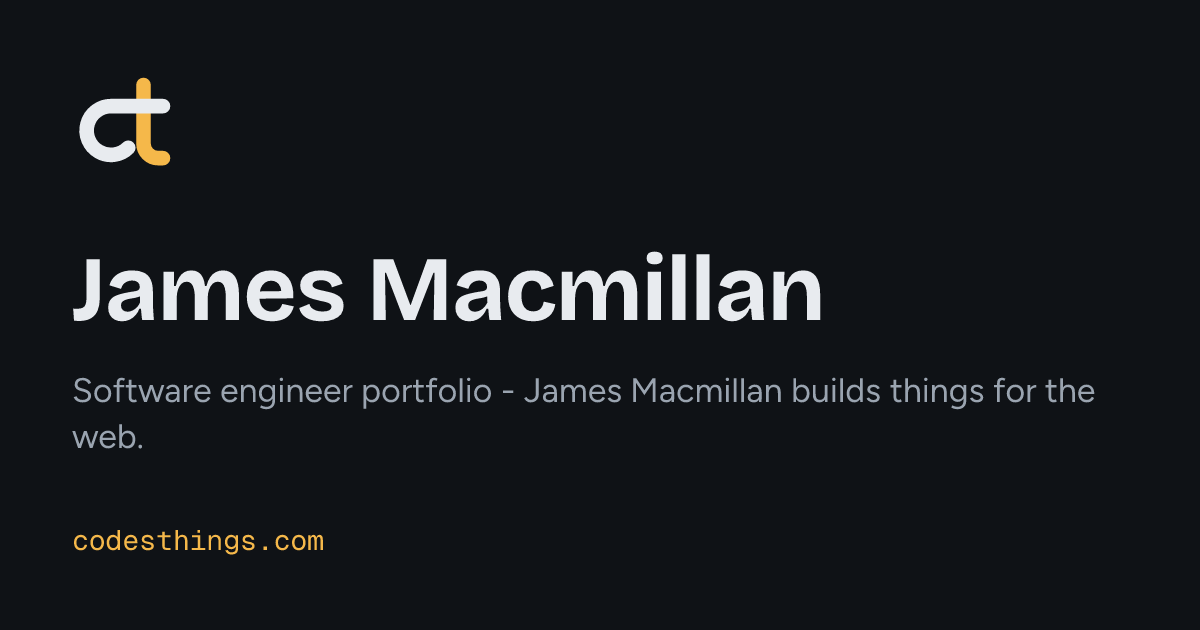
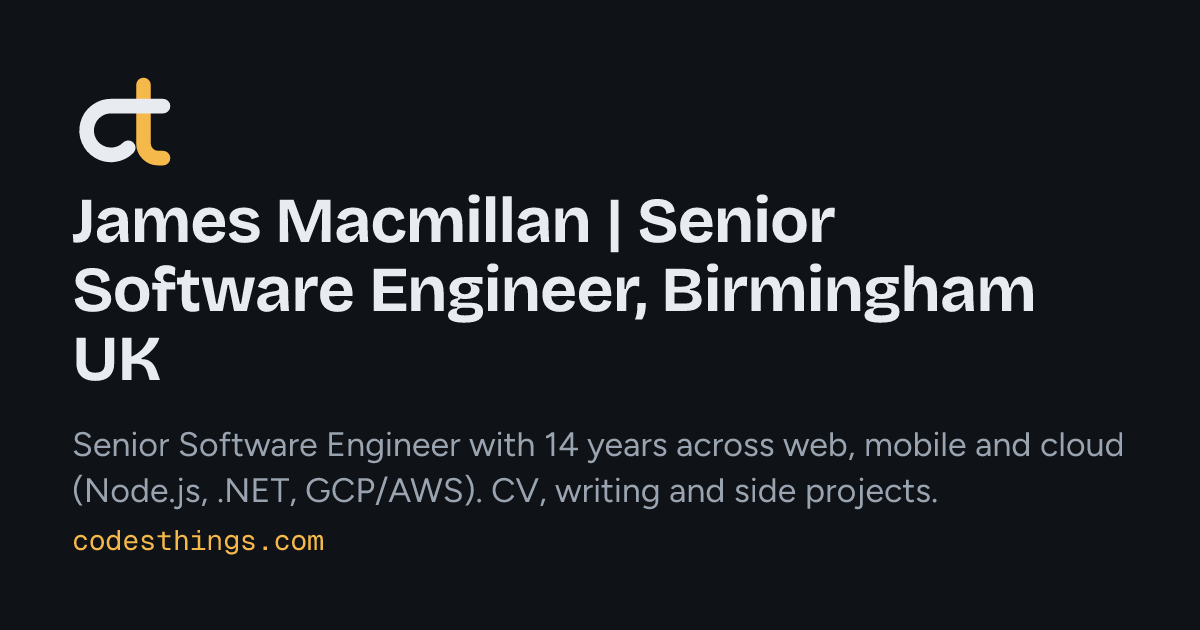
deploy: 5908e944f215933d7eda08b4990f09d56e4290ab

Changed region(s): [[0.0617, 0.3016, 0.9558, 0.7238], [0.0617, 0.754, 0.7708, 0.8143]]

diff --git a/index.html b/index.html
@@ -11,25 +11,25 @@ Hi. You're reading the source, so we'd get on. The CV is at /cv and the code is 
   <head>
     <meta charset="UTF-8" />
 <meta name="viewport" content="width=device-width, initial-scale=1.0" />
-<title>James Macmillan - codesthings.com</title>
-<meta name="description" content="Software engineer portfolio - James Macmillan builds things for the web." />
+<title>James Macmillan | Senior Software Engineer, Birmingham UK</title>
+<meta name="description" content="Senior Software Engineer with 14 years across web, mobile and cloud (Node.js, .NET, GCP/AWS). CV, writing and side projects." />
 <link rel="canonical" href="https://codesthings.com/" />
 <meta name="color-scheme" content="dark light" />
 
 <meta property="og:type" content="website" />
 <meta property="og:site_name" content="codesthings.com" />
-<meta property="og:title" content="James Macmillan - codesthings.com" />
-<meta property="og:description" content="Software engineer portfolio - James Macmillan builds things for the web." />
+<meta property="og:title" content="James Macmillan | Senior Software Engineer, Birmingham UK" />
+<meta property="og:description" content="Senior Software Engineer with 14 years across web, mobile and cloud (Node.js, .NET, GCP/AWS). CV, writing and side projects." />
 <meta property="og:url" content="https://codesthings.com/" />
 <meta property="og:image" content="https://codesthings.com/og/home.png" />
 <meta property="og:image:width" content="1200" />
 <meta property="og:image:height" content="630" />
-<meta property="og:image:alt" content="Share card for James Macmillan - codesthings.com" />
+<meta property="og:image:alt" content="Share card for James Macmillan | Senior Software Engineer, Birmingham UK" />
 <meta name="twitter:card" content="summary_large_image" />
-<meta name="twitter:title" content="James Macmillan - codesthings.com" />
-<meta name="twitter:description" content="Software engineer portfolio - James Macmillan builds things for the web." />
+<meta name="twitter:title" content="James Macmillan | Senior Software Engineer, Birmingham UK" />
+<meta name="twitter:description" content="Senior Software Engineer with 14 years across web, mobile and cloud (Node.js, .NET, GCP/AWS). CV, writing and side projects." />
 <meta name="twitter:image" content="https://codesthings.com/og/home.png" />
-<meta name="twitter:image:alt" content="Share card for James Macmillan - codesthings.com" />
+<meta name="twitter:image:alt" content="Share card for James Macmillan | Senior Software Engineer, Birmingham UK" />
 
 <script type="application/ld+json">{"@context":"https://schema.org","@type":"Person","name":"James Macmillan","jobTitle":"Senior Software Engineer","url":"https://codesthings.com","address":{"@type":"PostalAddress","addressLocality":"Birmingham","addressCountry":"GB"},"sameAs":["https://github.com/jamescodesthings","https://makerworld.com/en/@jamescodesthing","https://www.linkedin.com/in/jamescodesthings","https://www.instagram.com/jamescodesthings/"]}</script>
 <link rel="icon" href="/assets/favicon.svg" type="image/svg+xml" />
@@ -207,7 +207,7 @@ Hi. You're reading the source, so we'd get on. The CV is at /cv and the code is 
     <p class="status-pill"><span class="status-pill__dot" aria-hidden="true"></span>Available now · Birmingham, UK</p>
     
     <h1 class="home-hero__name" id="hero-title">James Macmillan</h1>
-    <p class="home-hero__tagline"><span class="home-hero__prompt" aria-hidden="true">&gt;</span> software engineer · maker · photographer<span class="home-hero__cursor" aria-hidden="true"></span></p>
+    <p class="home-hero__tagline"><span class="home-hero__prompt" aria-hidden="true">&gt;</span> senior software engineer · maker · photographer<span class="home-hero__cursor" aria-hidden="true"></span></p>
     <p class="home-hero__bio">A pragmatic engineer who builds for the web, and makes things.</p>
     <ul class="home-hero__links">
       
@@ -1391,7 +1391,7 @@ Hi. You're reading the source, so we'd get on. The CV is at /cv and the code is 
     <p class="footer-meta">
       <span>&copy; 2026 James Macmillan</span>
       
-      <a href="https://github.com/jamescodesthings/jamescodesthings.github.io/commit/b700e7570e659b001821a51fef5ef1f38c37920b" rel="noopener">vb700e75 &middot; built 12 Oct 2026</a>
+      <a href="https://github.com/jamescodesthings/jamescodesthings.github.io/commit/5908e944f215933d7eda08b4990f09d56e4290ab" rel="noopener">v5908e94 &middot; built 12 Oct 2026</a>
       
     </p>
   </div>

diff --git a/about-cookies.html b/about-cookies.html
@@ -369,7 +369,7 @@ Hi. You're reading the source, so we'd get on. The CV is at /cv and the code is 
     <p class="footer-meta">
       <span>&copy; 2026 James Macmillan</span>
       
-      <a href="https://github.com/jamescodesthings/jamescodesthings.github.io/commit/b700e7570e659b001821a51fef5ef1f38c37920b" rel="noopener">vb700e75 &middot; built 12 Oct 2026</a>
+      <a href="https://github.com/jamescodesthings/jamescodesthings.github.io/commit/5908e944f215933d7eda08b4990f09d56e4290ab" rel="noopener">v5908e94 &middot; built 12 Oct 2026</a>
       
     </p>
   </div>

diff --git a/blog/2026-03-30-how-this-site-works.html b/blog/2026-03-30-how-this-site-works.html
@@ -409,7 +409,7 @@ Hi. You're reading the source, so we'd get on. The CV is at /cv and the code is 
     <p class="footer-meta">
       <span>&copy; 2026 James Macmillan</span>
       
-      <a href="https://github.com/jamescodesthings/jamescodesthings.github.io/commit/b700e7570e659b001821a51fef5ef1f38c37920b" rel="noopener">vb700e75 &middot; built 12 Oct 2026</a>
+      <a href="https://github.com/jamescodesthings/jamescodesthings.github.io/commit/5908e944f215933d7eda08b4990f09d56e4290ab" rel="noopener">v5908e94 &middot; built 12 Oct 2026</a>
       
     </p>
   </div>

diff --git a/blog/2026-05-01-zerocalc.html b/blog/2026-05-01-zerocalc.html
@@ -670,7 +670,7 @@ on <a href="https://www.printables.com/model/1399739-picocalc-zero-mod-case" rel
     <p class="footer-meta">
       <span>&copy; 2026 James Macmillan</span>
       
-      <a href="https://github.com/jamescodesthings/jamescodesthings.github.io/commit/b700e7570e659b001821a51fef5ef1f38c37920b" rel="noopener">vb700e75 &middot; built 12 Oct 2026</a>
+      <a href="https://github.com/jamescodesthings/jamescodesthings.github.io/commit/5908e944f215933d7eda08b4990f09d56e4290ab" rel="noopener">v5908e94 &middot; built 12 Oct 2026</a>
       
     </p>
   </div>

diff --git a/blog/2026-10-09-making-my-site-fast.html b/blog/2026-10-09-making-my-site-fast.html
@@ -487,7 +487,7 @@ Hi. You're reading the source, so we'd get on. The CV is at /cv and the code is 
     <p class="footer-meta">
       <span>&copy; 2026 James Macmillan</span>
       
-      <a href="https://github.com/jamescodesthings/jamescodesthings.github.io/commit/b700e7570e659b001821a51fef5ef1f38c37920b" rel="noopener">vb700e75 &middot; built 12 Oct 2026</a>
+      <a href="https://github.com/jamescodesthings/jamescodesthings.github.io/commit/5908e944f215933d7eda08b4990f09d56e4290ab" rel="noopener">v5908e94 &middot; built 12 Oct 2026</a>
       
     </p>
   </div>

diff --git a/blog/index.html b/blog/index.html
@@ -344,7 +344,7 @@ Hi. You're reading the source, so we'd get on. The CV is at /cv and the code is 
     <p class="footer-meta">
       <span>&copy; 2026 James Macmillan</span>
       
-      <a href="https://github.com/jamescodesthings/jamescodesthings.github.io/commit/b700e7570e659b001821a51fef5ef1f38c37920b" rel="noopener">vb700e75 &middot; built 12 Oct 2026</a>
+      <a href="https://github.com/jamescodesthings/jamescodesthings.github.io/commit/5908e944f215933d7eda08b4990f09d56e4290ab" rel="noopener">v5908e94 &middot; built 12 Oct 2026</a>
       
     </p>
   </div>

diff --git a/colophon.html b/colophon.html
@@ -403,7 +403,7 @@ Hi. You're reading the source, so we'd get on. The CV is at /cv and the code is 
     <p class="footer-meta">
       <span>&copy; 2026 James Macmillan</span>
       
-      <a href="https://github.com/jamescodesthings/jamescodesthings.github.io/commit/b700e7570e659b001821a51fef5ef1f38c37920b" rel="noopener">vb700e75 &middot; built 12 Oct 2026</a>
+      <a href="https://github.com/jamescodesthings/jamescodesthings.github.io/commit/5908e944f215933d7eda08b4990f09d56e4290ab" rel="noopener">v5908e94 &middot; built 12 Oct 2026</a>
       
     </p>
   </div>

diff --git a/now.html b/now.html
@@ -316,7 +316,7 @@ Hi. You're reading the source, so we'd get on. The CV is at /cv and the code is 
     <p class="footer-meta">
       <span>&copy; 2026 James Macmillan</span>
       
-      <a href="https://github.com/jamescodesthings/jamescodesthings.github.io/commit/b700e7570e659b001821a51fef5ef1f38c37920b" rel="noopener">vb700e75 &middot; built 12 Oct 2026</a>
+      <a href="https://github.com/jamescodesthings/jamescodesthings.github.io/commit/5908e944f215933d7eda08b4990f09d56e4290ab" rel="noopener">v5908e94 &middot; built 12 Oct 2026</a>
       
     </p>
   </div>

diff --git a/privacy-notice.html b/privacy-notice.html
@@ -370,7 +370,7 @@ Hi. You're reading the source, so we'd get on. The CV is at /cv and the code is 
     <p class="footer-meta">
       <span>&copy; 2026 James Macmillan</span>
       
-      <a href="https://github.com/jamescodesthings/jamescodesthings.github.io/commit/b700e7570e659b001821a51fef5ef1f38c37920b" rel="noopener">vb700e75 &middot; built 12 Oct 2026</a>
+      <a href="https://github.com/jamescodesthings/jamescodesthings.github.io/commit/5908e944f215933d7eda08b4990f09d56e4290ab" rel="noopener">v5908e94 &middot; built 12 Oct 2026</a>
       
     </p>
   </div>

diff --git a/projects/index.html b/projects/index.html
@@ -937,7 +937,7 @@ Hi. You're reading the source, so we'd get on. The CV is at /cv and the code is 
     <p class="footer-meta">
       <span>&copy; 2026 James Macmillan</span>
       
-      <a href="https://github.com/jamescodesthings/jamescodesthings.github.io/commit/b700e7570e659b001821a51fef5ef1f38c37920b" rel="noopener">vb700e75 &middot; built 12 Oct 2026</a>
+      <a href="https://github.com/jamescodesthings/jamescodesthings.github.io/commit/5908e944f215933d7eda08b4990f09d56e4290ab" rel="noopener">v5908e94 &middot; built 12 Oct 2026</a>
       
     </p>
   </div>

diff --git a/uses.html b/uses.html
@@ -347,7 +347,7 @@ Hi. You're reading the source, so we'd get on. The CV is at /cv and the code is 
     <p class="footer-meta">
       <span>&copy; 2026 James Macmillan</span>
       
-      <a href="https://github.com/jamescodesthings/jamescodesthings.github.io/commit/b700e7570e659b001821a51fef5ef1f38c37920b" rel="noopener">vb700e75 &middot; built 12 Oct 2026</a>
+      <a href="https://github.com/jamescodesthings/jamescodesthings.github.io/commit/5908e944f215933d7eda08b4990f09d56e4290ab" rel="noopener">v5908e94 &middot; built 12 Oct 2026</a>
       
     </p>
   </div>

diff --git a/404.html b/404.html
@@ -313,7 +313,7 @@ at Object.&lt;anonymous&gt; (404.html:1:1)</code></pre>
     <p class="footer-meta">
       <span>&copy; 2026 James Macmillan</span>
       
-      <a href="https://github.com/jamescodesthings/jamescodesthings.github.io/commit/b700e7570e659b001821a51fef5ef1f38c37920b" rel="noopener">vb700e75 &middot; built 12 Oct 2026</a>
+      <a href="https://github.com/jamescodesthings/jamescodesthings.github.io/commit/5908e944f215933d7eda08b4990f09d56e4290ab" rel="noopener">v5908e94 &middot; built 12 Oct 2026</a>
       
     </p>
   </div>
